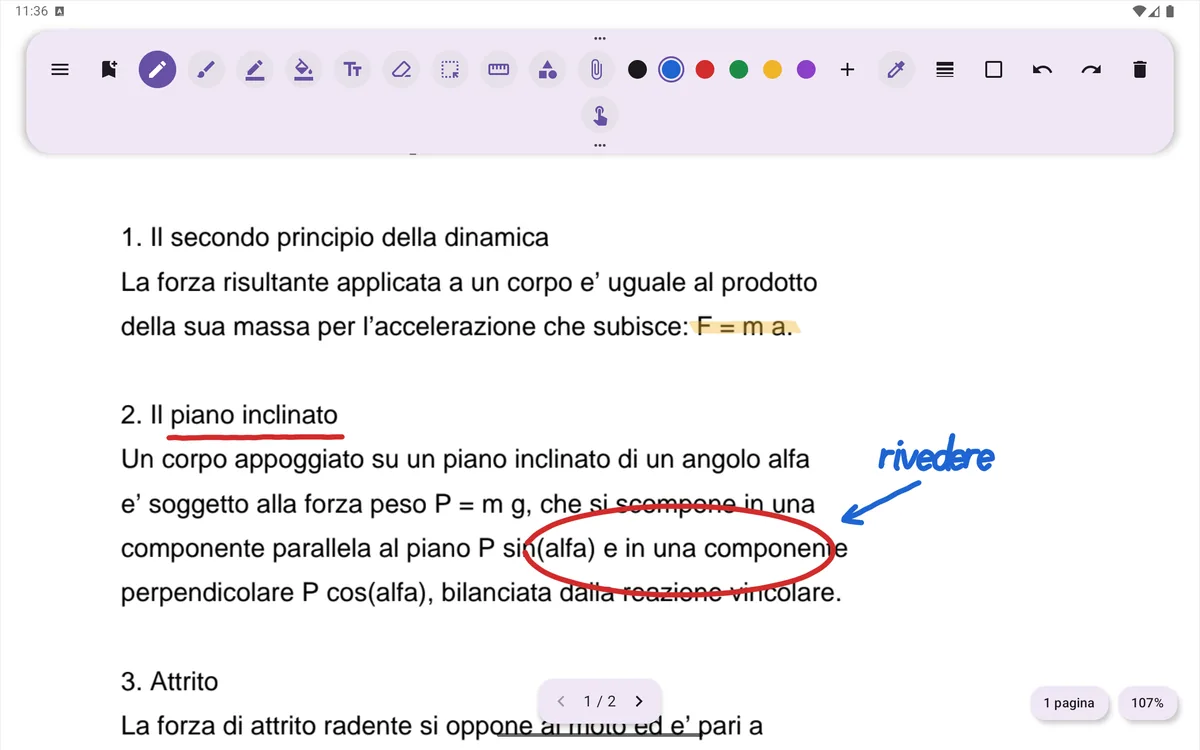
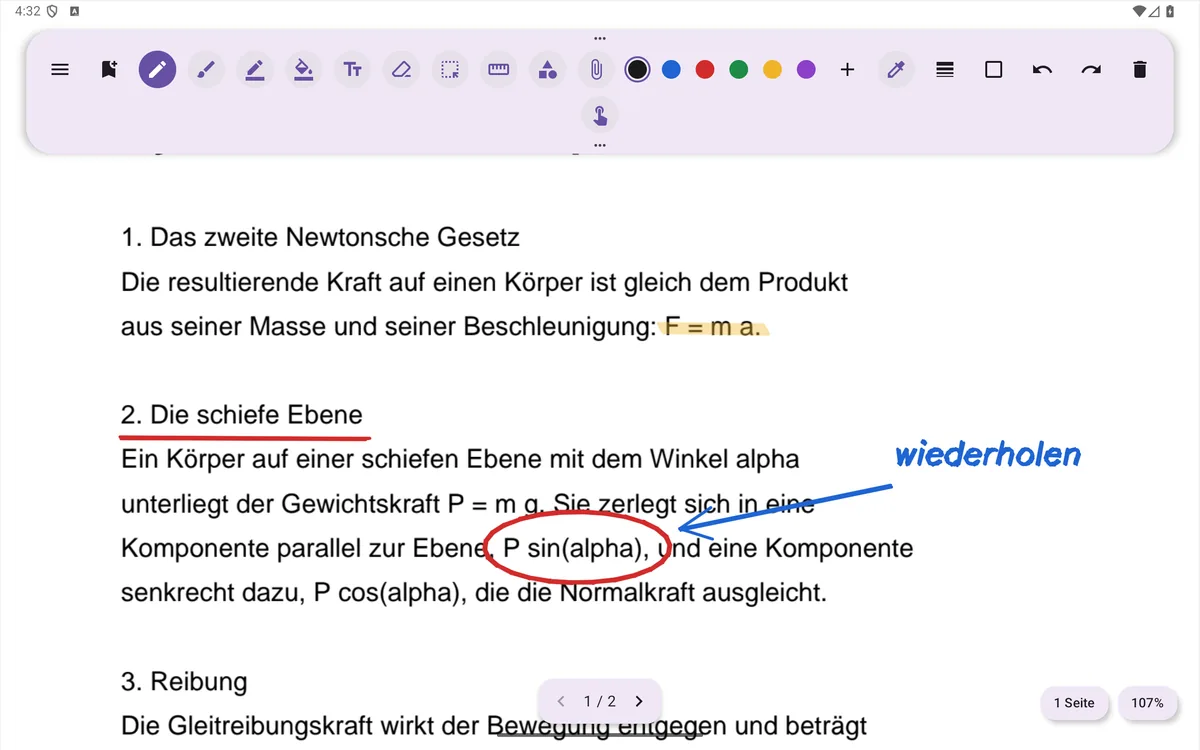
Scriba-Screenshots je Sprache (Deutsch, Englisch, Italienisch)

diff --git a/index.html b/index.html
@@ -141,16 +141,16 @@
         <article class="project project--lead reveal" aria-labelledby="p-scriba">
           <div class="shots">
             <figure class="shot shot--tablet">
-              <a class="zoom" href="assets/img/scriba-1.webp"><img src="assets/img/scriba-1.webp" width="1600" height="1000" loading="lazy" decoding="async"
+              <a class="zoom" href="assets/img/scriba-1.webp"><img src="assets/img/scriba-1.webp" data-src-en="assets/img/scriba-1.en.webp" data-src-it="assets/img/scriba-1.it.webp" width="1600" height="1000" loading="lazy" decoding="async"
                    alt="Scriba: handschriftliche Physik-Notizen mit Formel, erkannter Ellipse und gefülltem Dreieck, darüber die Werkzeugleiste" data-i18n-alt="altScriba"></a>
             </figure>
             <div class="shots-row">
               <figure class="shot shot--tablet">
-                <a class="zoom" href="assets/img/scriba-2.webp"><img src="assets/img/scriba-2.webp" width="1200" height="750" loading="lazy" decoding="async"
+                <a class="zoom" href="assets/img/scriba-2.webp"><img src="assets/img/scriba-2.webp" data-src-en="assets/img/scriba-2.en.webp" data-src-it="assets/img/scriba-2.it.webp" width="1200" height="750" loading="lazy" decoding="async"
                      alt="Scriba: importiertes PDF mit handschriftlichen Markierungen und Randnotiz" data-i18n-alt="altScriba2"></a>
               </figure>
               <figure class="shot shot--tablet">
-                <a class="zoom" href="assets/img/scriba-3.webp"><img src="assets/img/scriba-3.webp" width="1200" height="750" loading="lazy" decoding="async"
+                <a class="zoom" href="assets/img/scriba-3.webp"><img src="assets/img/scriba-3.webp" data-src-en="assets/img/scriba-3.en.webp" data-src-it="assets/img/scriba-3.it.webp" width="1200" height="750" loading="lazy" decoding="async"
                      alt="Scriba: mit dem Lasso ausgewähltes Dreieck mit Griffen zum Verschieben, Skalieren und Drehen" data-i18n-alt="altScriba3"></a>
               </figure>
             </div>
